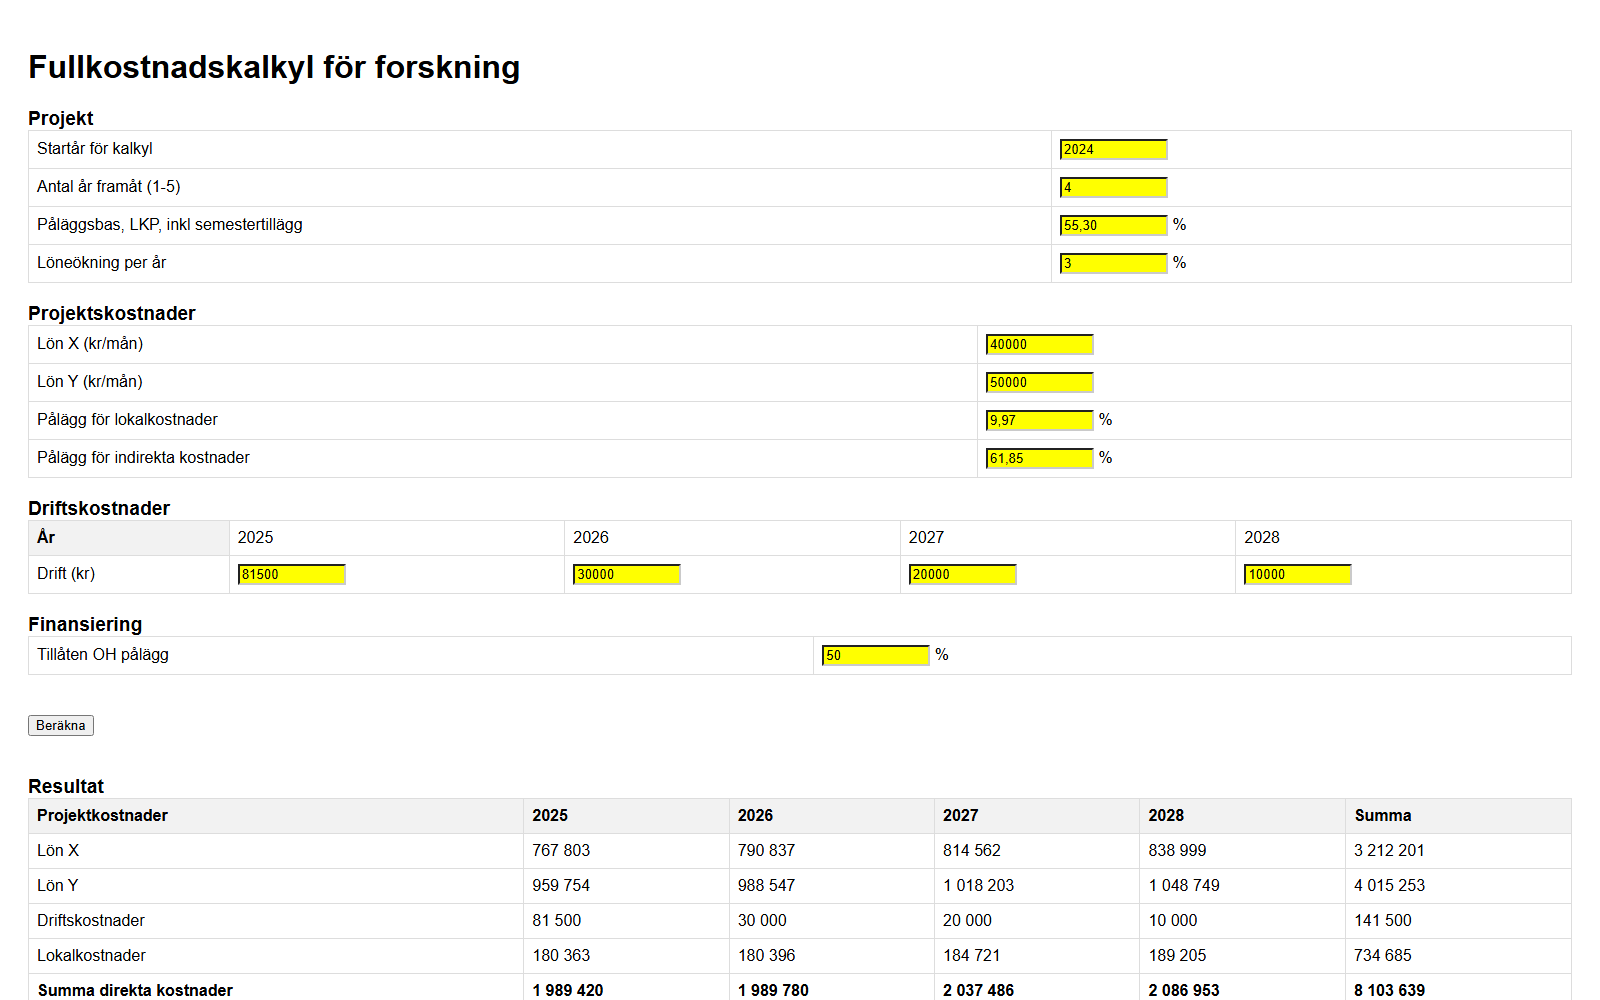
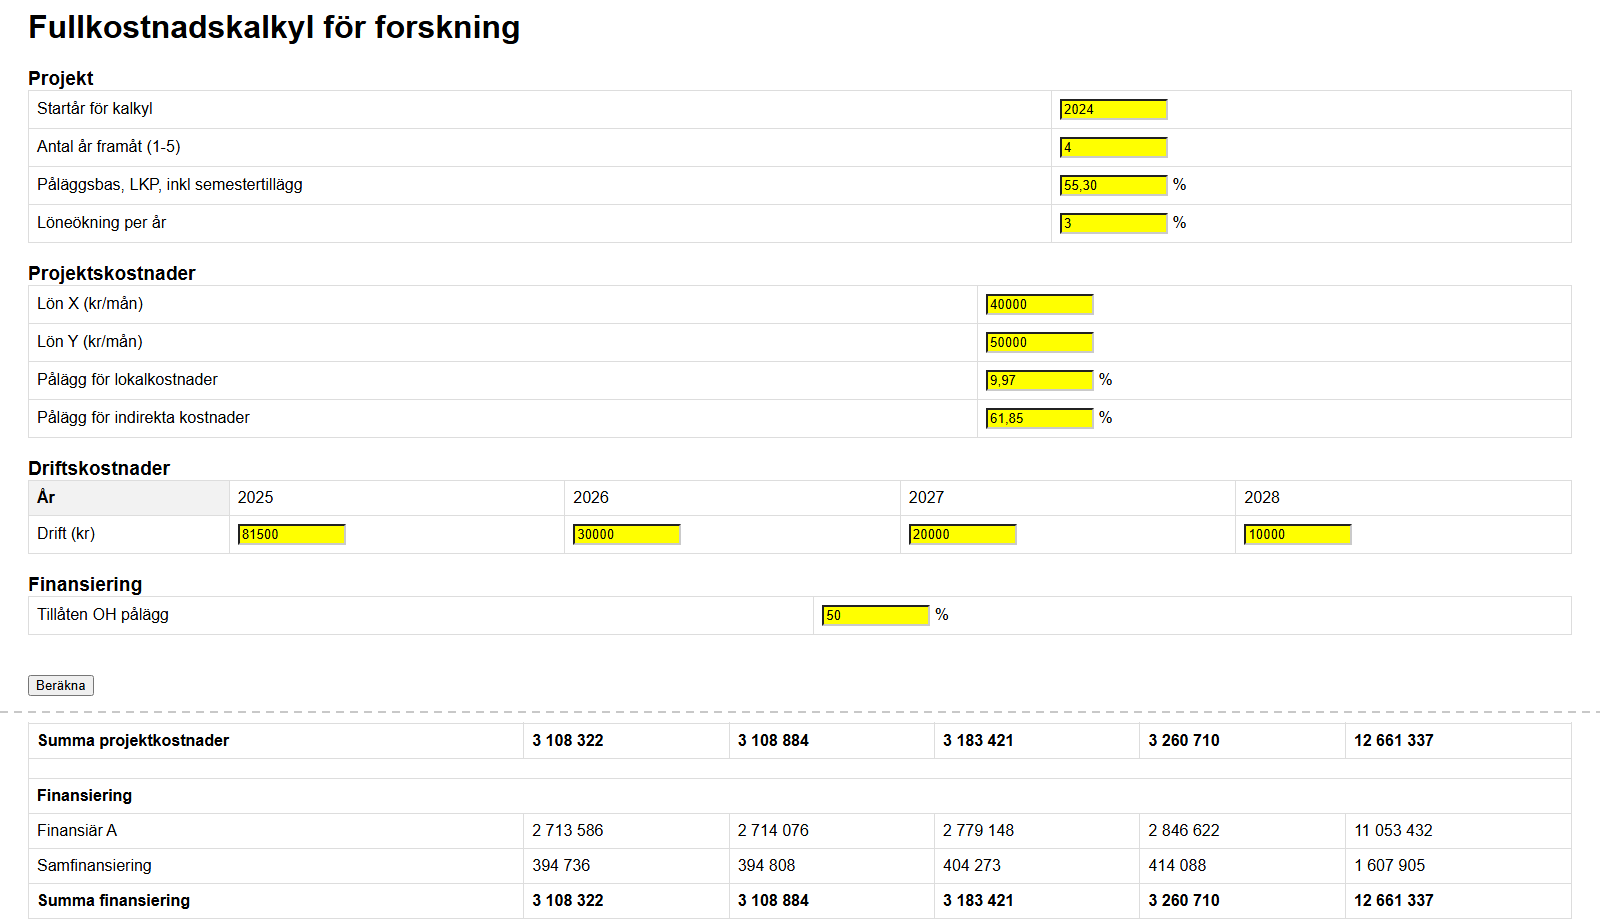
Show full Fullkostnadskalkyl screenshot without cropping
The forskarkalkyl slide now uses a compressed screenshot (top input
section + bottom Finansiering/Samfinansiering totals, joined with a
dashed divider, cut down from a full-page capture) combined with a
new per-project imageFit field set to "contain" - the entire image is
now guaranteed visible regardless of window width, instead of being
cropped by the default cover behaviour. imageFit is opt-in per
project (mirrors the existing imagePosition field), so every other
slide keeps its unchanged cover crop.

diff --git a/Presentationer/Nr1/projects.js b/Presentationer/Nr1/projects.js
@@ -153,7 +153,7 @@ subprocess.run([<span class="str">"ffmpeg"</span>, <span class="str">"-i"</span>
     caption: "En kalkyl för forskningsprojekt, där kostnaden till stor del är arbetskraft: lön, LKP-pålägg, lokal- och indirekta kostnader över flera år, ställt mot finansiär och samfinansiering. Byggd med Claude 3.5 och jämförd rakt av mot mina gamla Excel-kalkyler i en egen video.",
     url: "https://kentlundgren.se/kalkyler/fullkostnadskalkyl_for_forskning.html",
     image: "images/forskarkalkyl.png",
-    imagePosition: "left top",
+    imageFit: "contain",
     source: { label: "Läs mer: Göra en kalkyl tillsammans med AI", url: "https://controllerutangranser.wordpress.com/2024/10/25/gora-en-kalkyl-tillsammans-med-ai/" }
   },
   {

diff --git a/Presentationer/Nr1/script.js b/Presentationer/Nr1/script.js
@@ -135,6 +135,7 @@
       img.src = project.image;
       img.alt = project.title;
       if (project.imagePosition) img.style.objectPosition = project.imagePosition;
+      if (project.imageFit) img.style.objectFit = project.imageFit;
       img.onerror = function () {
         this.onerror = null;
         this.src = placeholderSrc(project.title);
